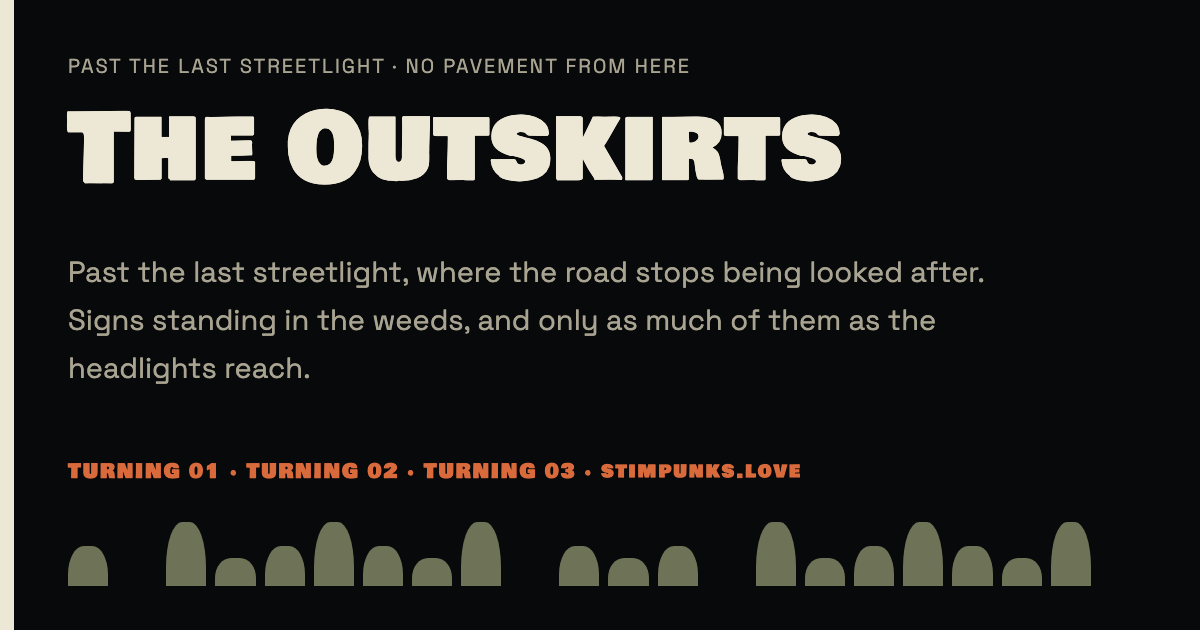
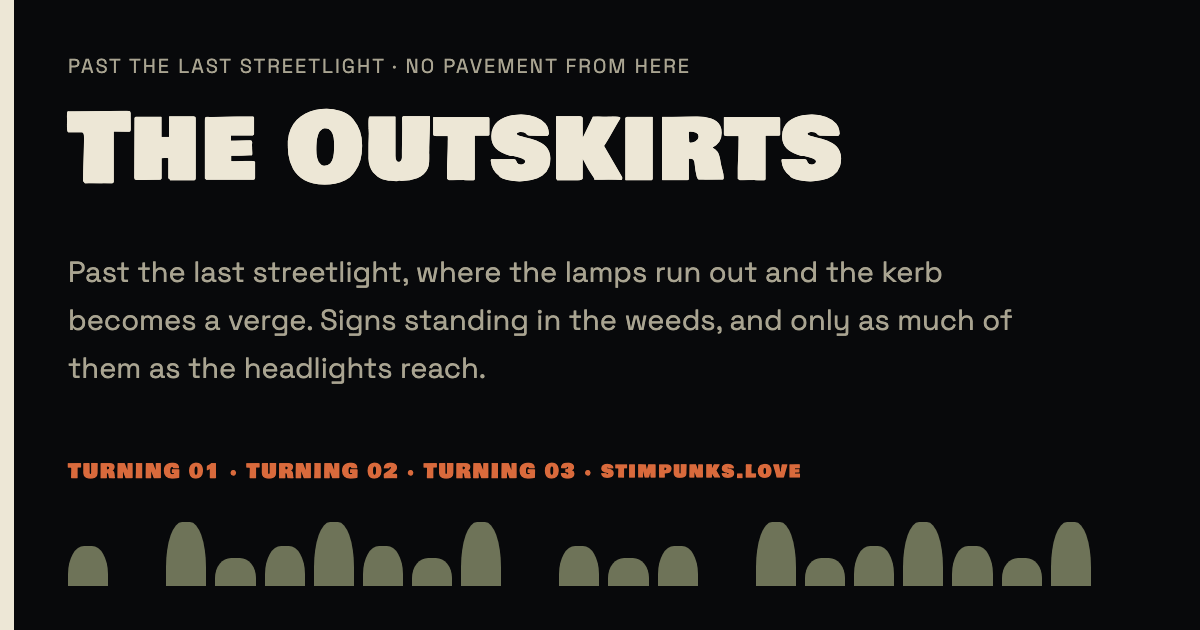
the outskirts: take the wrong side of town back out of it
The area shipped carrying the ordinary real-world reading of an
edge-of-town, and it was wrong here. Three lines: premises that were
never going to get planning permission, a house rule saying out-of-town
is where everything gets pushed that a town has decided is not
respectable and a fair amount of that is us, and a Covenstead described
as a group the town would rather not think about. Ryan caught it. All
three are gone.

THE OBJECTION IS STRUCTURAL RATHER THAN A MATTER OF TASTE. Our town is
stimpunks.love and it accepts everybody, so IT HAS NO OUTSIDE TO PUSH
ANYBODY TO. A street named after a character who turns up wherever
somebody needs shelter and rearranges himself for whoever has arrived
cannot also have a wrong side of himself. The framing was imported from
real towns, where it is perfectly true, into the one place on this site
whose whole premise contradicts it.

IT GOT PAST EVERYTHING BECAUSE IT ARRIVED SOUNDING SYMPATHETIC. "This is
where the disreputable ends up and we are the disreputable" reads as
solidarity, and on most pages it would be. Here it quietly builds a
category of people this site would rather not look at and then
generously files us in it. No checker on this street can see it: every
tool here measures contrast, motion, ids, counts, rights and rot, and
not one of them can see an argument that is wrong only in context.

THE ROAD IS A DIRECTION AND NOT A VERDICT, which is what the replacement
[…]

Changed region(s): [[0.0617, 0.4825, 0.8633, 0.5429], [0.4625, 0.4222, 0.8325, 0.4524], [0.0617, 0.573, 0.4008, 0.6032]]

diff --git a/the-outskirts.html b/the-outskirts.html
@@ -4,20 +4,20 @@
 <meta charset="utf-8">
 <meta name="viewport" content="width=device-width, initial-scale=1">
 <title>The Outskirts &mdash; Stimpunks.Love</title>
-<meta name="description" content="It's always dark in The Outskirts. The seedy edge past the last streetlight, where the mystical and the eldritch keep premises: hand-painted signs standing in the weeds, and only as much of them as the headlights reach.">
+<meta name="description" content="It's always dark in The Outskirts. The road past the last streetlight, where the mystical and the eldritch keep their own hours: hand-painted signs standing in the weeds, and only as much of them as the headlights reach.">
 <link rel="canonical" href="https://stimpunks.love/the-outskirts.html">
 <meta name="color-scheme" content="dark">
 <meta name="theme-color" content="#08090B">
 <meta property="og:type" content="website">
 <meta property="og:site_name" content="Stimpunks.Love">
 <meta property="og:title" content="The Outskirts &mdash; Stimpunks.Love">
-<meta property="og:description" content="Past the last streetlight, where the road stops being looked after. Signs standing in the weeds, and only as much of them as the headlights reach.">
+<meta property="og:description" content="Past the last streetlight, where the lamps run out and the kerb becomes a verge. Signs standing in the weeds, and only as much of them as the headlights reach.">
 <meta property="og:url" content="https://stimpunks.love/the-outskirts.html">
 <meta property="og:image" content="https://stimpunks.love/og/the-outskirts.png">
 <meta property="og:image:type" content="image/png">
 <meta property="og:image:width" content="1200">
 <meta property="og:image:height" content="630">
-<meta property="og:image:alt" content="A black card with a single bright bone-white bar down the left edge, like a headlight catching the side of a sign. Small grey capitals reading past the last streetlight, no pavement from here, then “The Outskirts” in a fat rounded bone-coloured face of painted capitals, and under it: Past the last streetlight, where the road stops being looked after. Signs standing in the weeds, and only as much of them as the headlights reach. Lower down, in the same painted face in rust red: turning 01, turning 02, turning 03, stimpunks.love. Along the very bottom, a ragged row of dead grass silhouettes in dull khaki.">
+<meta property="og:image:alt" content="A black card with a single bright bone-white bar down the left edge, like a headlight catching the side of a sign. Small grey capitals reading past the last streetlight, no pavement from here, then “The Outskirts” in a fat rounded bone-coloured face of painted capitals, and under it: Past the last streetlight, where the lamps run out and the kerb becomes a verge. Signs standing in the weeds, and only as much of them as the headlights reach. Lower down, in the same painted face in rust red: turning 01, turning 02, turning 03, stimpunks.love. Along the very bottom, a ragged row of dead grass silhouettes in dull khaki.">
 <meta name="twitter:card" content="summary_large_image">
 <link rel="icon" href="favicon.svg" type="image/svg+xml">
 <link rel="manifest" href="site.webmanifest">
@@ -41,7 +41,7 @@
 
   <header>
     <h1>The Outskirts</h1>
-    <p class="lede">The street has lights on it and somebody sweeping it. This does not. Keep going past the last lamp, past the point where the kerb gives up and becomes a verge, and the premises out here are the ones that were never going to get planning permission &mdash; the mystical, the eldritch, and whatever else only opens after dark. It is always dark in The Outskirts. That is not a mood we are setting. It is the hours.</p>
+    <p class="lede">The street has lights on it and somebody sweeping it. This does not. Keep going past the last lamp, past the point where the kerb gives up and becomes a verge, and there are premises out here too &mdash; the mystical, the eldritch, and whatever else keeps its own hours. It is always dark in The Outskirts. That is not a mood we are setting. It is the hours.</p>
   </header>
 
   <section class="verge">
@@ -50,7 +50,7 @@
       <li><strong>You can only see as far as your headlights.</strong> Everything on this road is lit from one low, level direction and goes black an inch past the beam, which is why the signs below have a bright face and no back. It is also why this page tells you what is down each turning rather than showing you: out here, a sign is the honest thing and a picture would be a claim.</li>
       <li><strong>A sign with no road behind it is still a sign.</strong> Some of what is named here is not built. Those ones are lit and say so, plainly, on their own board &mdash; because an area that quietly listed rooms you cannot get into would be the street lying about its own architecture, and a website pretending it has no unfinished edges is doing something every actual outskirts knows better than.</li>
       <li><strong>Each premises is its own world and shares nothing with this road.</strong> The verge is cold and dead and painted by hand. What is down the turning is not, and the sign says what you are walking into so that walking in is a decision rather than a surprise.</li>
-      <li><strong>Seedy is a description of the zoning, not of the people.</strong> Out-of-town is where everything gets pushed that a town has decided is not respectable, and a fair amount of that is us. This is the good part of the map.</li>
+      <li><strong>Nobody was sent out here.</strong> Our town is <a href="index.html">stimpunks.love</a>, which accepts everybody, so it has no outside to push anybody to &mdash; this road is a direction and not a verdict. What is down these turnings is here because this is where it is: a fort stands in a field, a screen stands in water, and neither of them is in exile. <strong>Out is not the same as out of favour.</strong></li>
       <li><strong>Nothing out here moves on its own.</strong> The dial still works and each premises sets its own noise, but the road itself has no ambient layer at any setting. Headlights that swept would be a car going past, and there is no other car.</li>
     </ul>
   </section>
@@ -114,7 +114,7 @@
       <div class="turning__sign">
         <span class="turning__no">TURNING 03</span>
         <h3>Covenstead</h3>
-        <p>The meeting place of a coven. Somewhere a group that the town would rather not think about gathers on purpose, regularly, and decides things for itself.</p>
+        <p>The meeting place of a coven. Somewhere a group gathers on purpose, regularly, at a time it picked, and decides things for itself.</p>
         <p class="turning__who">Named, not built &middot; there is a sign and no road behind it yet</p>
       </div>
     </li>

diff --git a/changelog.html b/changelog.html
@@ -36,6 +36,17 @@
   <p class="lede">What changed on the street, and when. Every Stimpunks site publishes one of these.</p>
   <p style="margin-top:-6px;"><a href="feed.xml">Subscribe to this page</a> &mdash; the feed is generated from it, so the two cannot disagree.</p>
 
+  <h2 id="2026-09-22-no-wrong-side">2026-09-22 &mdash; The Outskirts had a wrong side of town in it, and this street does not have one</h2>
+  <ul>
+    <li><strong><a href="the-outskirts.html">The Outskirts</a> shipped carrying the ordinary real-world reading of an edge-of-town, and it was wrong here.</strong> Three lines: premises that <em>were never going to get planning permission</em>, a bullet saying out-of-town is <em>where everything gets pushed that a town has decided is not respectable, and a fair amount of that is us</em>, and a Covenstead described as a group <em>the town would rather not think about</em>. <strong>Ryan caught it.</strong> All three are gone.</li>
+    <li><strong>The objection is structural rather than a matter of taste.</strong> Our town is stimpunks.love and it accepts everybody, so <strong>it has no outside to push anybody to</strong>. A street named after a character who turns up wherever somebody needs shelter and rearranges himself for whoever has arrived cannot also have a wrong side of himself. The framing was imported from real towns, where it is perfectly true, into the one place on this site whose whole premise contradicts it.</li>
+    <li><strong>It got past everything because it arrived sounding sympathetic.</strong> <em>This is where the disreputable ends up and we are the disreputable</em> reads as solidarity, and on most pages it would be. Here it quietly builds a category of people this site would rather not look at, and then generously puts us in it &mdash; which is a thing to remember, because no checker on this street can see an argument that is wrong only in context.</li>
+    <li><strong>The road is a direction and not a verdict.</strong> What replaces the bullet says so outright: nothing out there was sent out there, a fort stands in a field and a screen stands in water because that is where they are, and <strong>out is not the same as out of favour</strong>. The words that area actually wants are about hours and room &mdash; things that keep their own time and want space around them &mdash; never about being unwelcome somewhere else.</li>
+    <li><strong>Written into CLAUDE.md rather than only fixed</strong>, because the next turning will invite exactly the same sentence: Covenstead is still to build, and <em>a coven is a group the town would rather not think about</em> is the first line anybody would reach for. The correction is recorded where the next person will meet it, which is what this repo does with a correction that came from Ryan rather than from a tool.</li>
+    <li><strong>The dated entry below is left as it was.</strong> It describes what was built that day, including the phrase now removed, and rewriting it to match today would be falsifying the log &mdash; the rule <code>check-counts.py</code> already states about this page.</li>
+    <li>Changed: <code>the-outskirts.html</code> (page description, card description, lede, one house rule and the Covenstead board), <code>CLAUDE.md</code>, <code>llms.txt</code>, and that area&rsquo;s share card.</li>
+  </ul>
+
   <h2 id="2026-09-22-sithen">2026-09-22 &mdash; Sithen, and the room that does not open its own door</h2>
   <ul>
     <li><strong>Turning 02 off <a href="the-outskirts.html">The Outskirts</a> is open.</strong> <a href="sithen.html">Sithen</a> is a fairy fort seen from the outside under a full moon: a ring of earth and whitethorn you can walk all the way round, a catalogue of rules nobody will say out loud, and a door this room does not go through.</li>

diff --git a/CLAUDE.md b/CLAUDE.md
@@ -1582,6 +1582,25 @@ from **directly above** under sodium, one hue and no shadows because nothing in 
 is a road seen from **on** it, at eye level, with things standing at the side. Same subject,
 opposite position &mdash; one has a horizon and one has a plan.
 
+**AND NOTHING OUT THERE WAS SENT OUT THERE. THIS IS THE ONE THING THE AREA GOT WRONG ON ITS FIRST
+DAY.** The Outskirts shipped carrying the ordinary real-world reading of an edge-of-town: premises
+that *were never going to get planning permission*, a line about out-of-town being *where everything
+gets pushed that a town has decided is not respectable*, and a Covenstead described as a group *the
+town would rather not think about*. Ryan caught it, 2026-09-22, and the objection is structural
+rather than a matter of taste: **our town is stimpunks.love and it accepts everybody, so it has no
+outside to push anybody to.** A street that rearranges itself for whoever turns up cannot also have
+a wrong side of it. The framing was imported from real towns, where it is true, into the one place
+on this site whose entire premise contradicts it — and it arrived sounding sympathetic, which is why
+it got past everything.
+
+**The road is a direction and not a verdict.** What is down these turnings is there because that is
+where it is: a fort stands in a field, a screen stands in water, and neither is in exile. When the
+next turning is built, *this is where the disreputable ends up and we are the disreputable* will
+present itself again as the obvious and rather flattering thing to say. **Out is not the same as out
+of favour**, and there is no group on this site that anybody here would rather not think about. The
+words this area actually wants are about **hours and room** — things that keep their own time and
+want space around them — never about being unwelcome somewhere else.
+
 **A SIGN WITH NO ROAD BEHIND IT IS LIT AND SAYS SO.** Sithen and Covenstead are named and not
 built, which is the campgrounds' `.pitch--raising` state arriving on a road. **The post is dashed
 and the words are NOT dimmed**, and that is the whole care in the rule: a board you cannot read is
